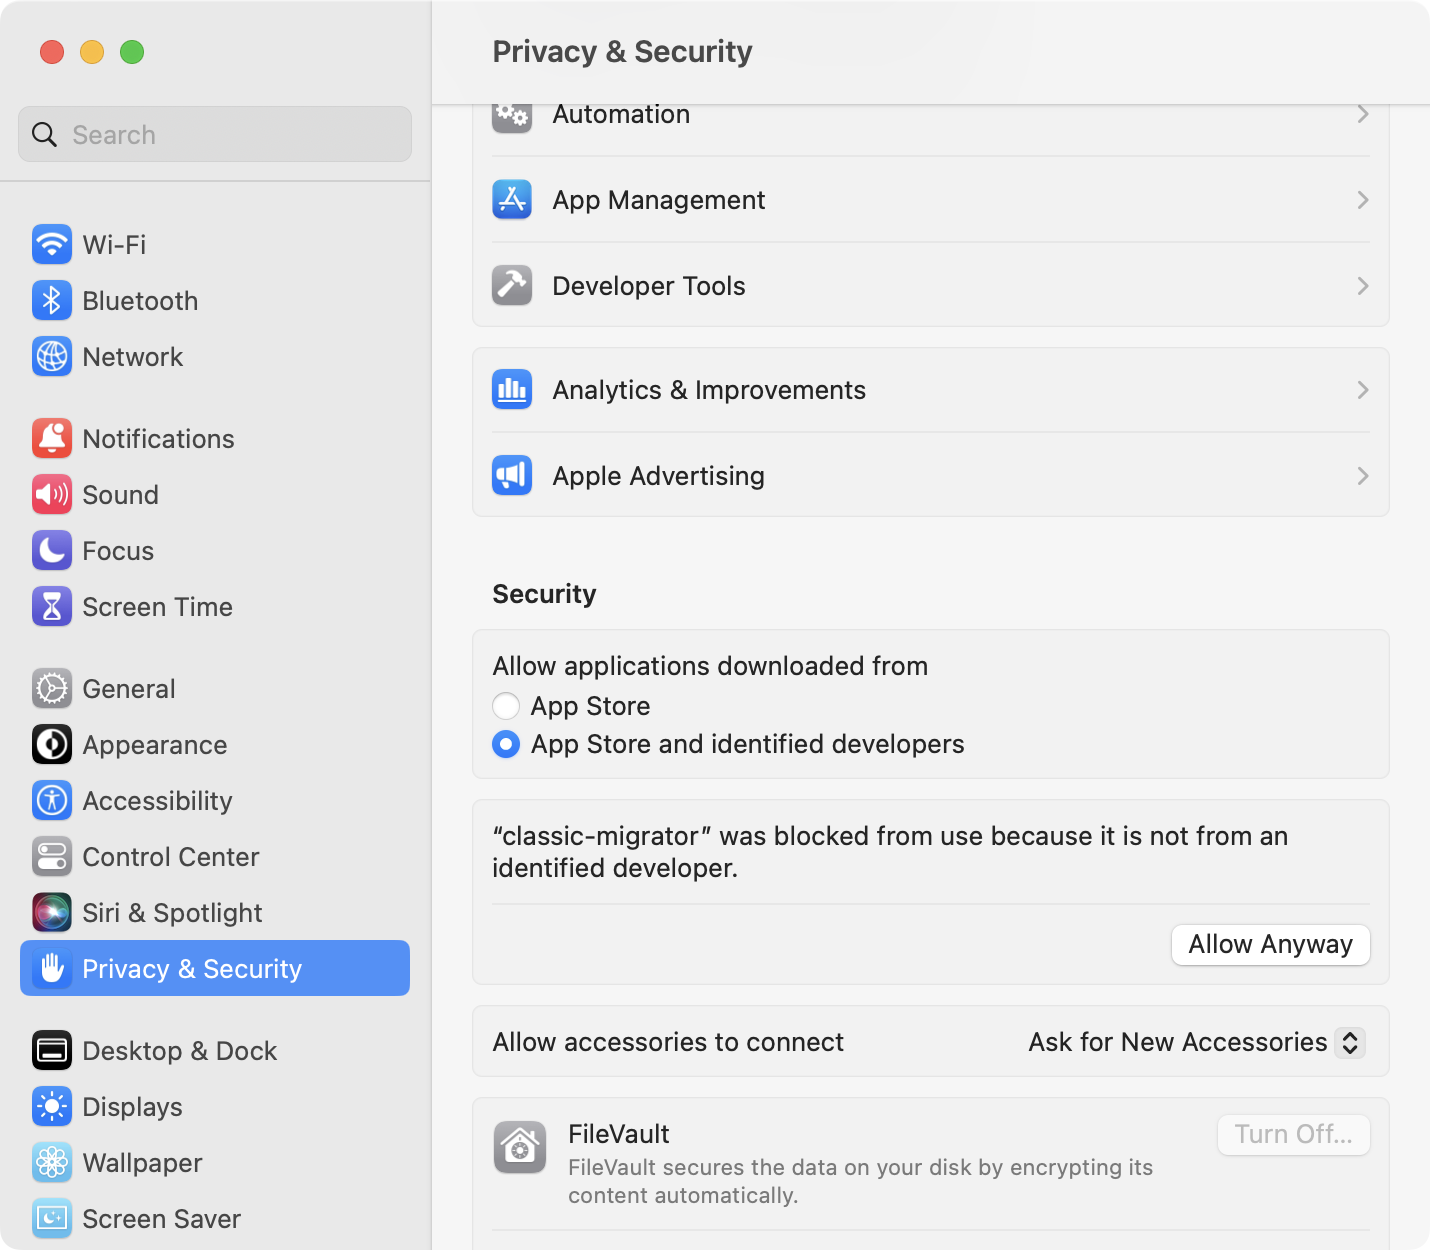
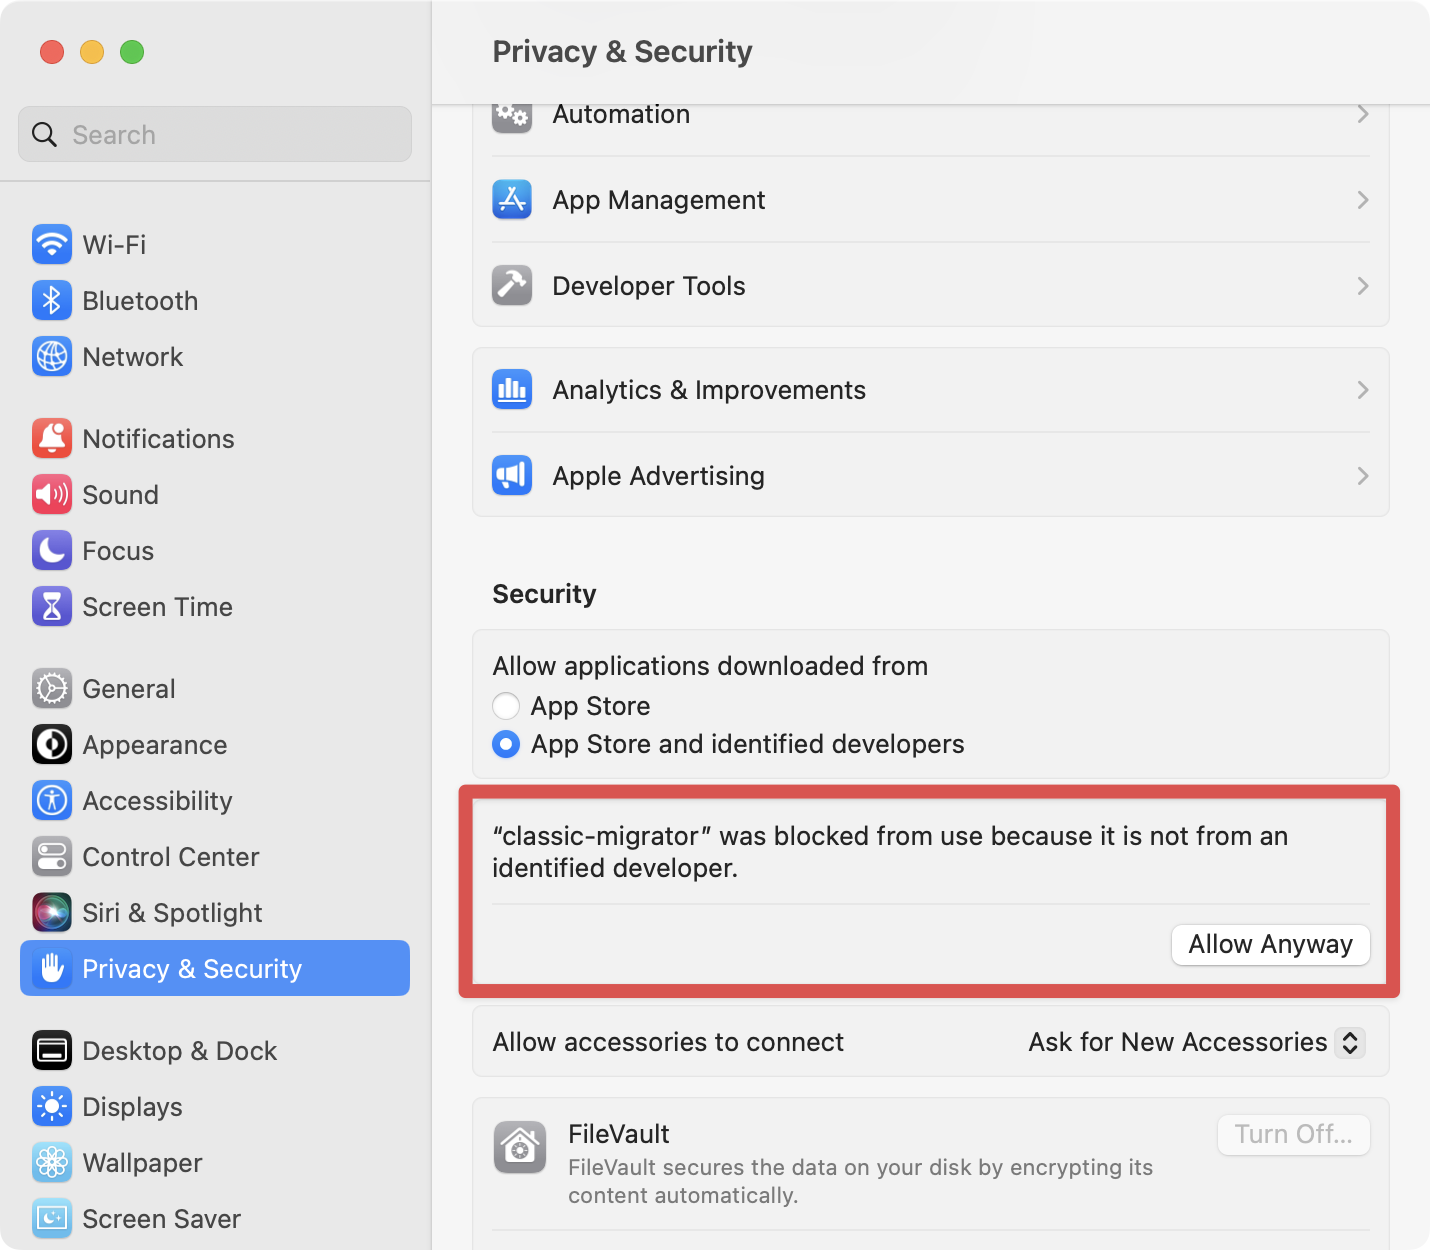
no idea how you do size controls in markdown and don't care

Changed region(s): [[0.3077, 0.624, 0.9846, 0.8112]]

diff --git a/README.md b/README.md
@@ -52,7 +52,7 @@ If you try to run the classic-migrator on macOS and receive the error:
 Go to Settings -> Privacy & Security  and scroll down to the Security "Allow applications downloaded from" section.
 
 Typically, macOS will give you a chance to exempt individual apps, like so:
-![Screenshot of the macOS Privacy & Security Settings](<macos-ventura-allow-unidentified.png>)
+<br><img src="macos-ventura-allow-unidentified.png" width=600>
 
 If that doesn't work, check out [these instructions](https://osxdaily.com/2022/11/17/allow-apps-downloaded-open-anywhere-macos/)
 
@@ -61,6 +61,7 @@ If you try to run the classic-migrator on macOS and receive the error:
 ```
 "classic-migrator" can't be opened because Apple cannot check it for malicious software
 ```
-![Screenshot of the macOS Gatekeeper error](<macos-gatekeeper-erro.png>)
+<img src="macos-gatekeeper-error.png" width=300>
+
 
 It doesn't necessarily mean there's anything wrong with your Mac or with the classic-migrator.  Check out [this article](https://iboysoft.com/howto/apple-cannot-check-it-for-malicious-software.html) for an explanation and instructions.  Also feel free to verify the file checksum against the `checksums.txt` file on the releases page.
